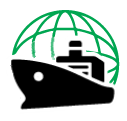
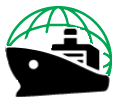
agregando estilos  y textos imagenes

diff --git a/src/front/js/pages/home.js b/src/front/js/pages/home.js
@@ -2,7 +2,9 @@ import React, { useContext } from "react";
 import { Context } from "../store/appContext";
 import "../../styles/home.css";
 import onlyTruck from "../../img/onlytruck.png";
+import onlyPlane from "../../img/onlyplane-white.png";
 import onlyBoat from "../../img/onlyboat-white.png";
+
 
 export const Home = () => {
   const { store, actions } = useContext(Context);
@@ -103,7 +105,7 @@ export const Home = () => {
           {/*  <rect width="100%" height="100%" fill="var(--bs-secondary-color)" />*/}
           {/*</svg>*/}
           <a href="#">
-            <img src={onlyBoat} alt="Logo"
+            <img src={onlyPlane} alt="Logo"
                  className="d-inline-block align-text-top" />
           </a>
           <h2 className="fw-normal">Air</h2>
@@ -114,11 +116,15 @@ export const Home = () => {
         {/*.col-lg-4 */}
 
         <div className="col-lg-4">
-          <svg className="bd-placeholder-img rounded-circle" width="140" height="140" xmlns="http://www.w3.org/2000/svg"
-               role="img" aria-label="Placeholder" preserveAspectRatio="xMidYMid slice" focusable="false">
-            <title>Ocean</title>
-            <rect width="100%" height="100%" fill="var(--bs-secondary-color)" />
-          </svg>
+          {/*<svg className="bd-placeholder-img rounded-circle" width="140" height="140" xmlns="http://www.w3.org/2000/svg"*/}
+          {/*     role="img" aria-label="Placeholder" preserveAspectRatio="xMidYMid slice" focusable="false">*/}
+          {/*  <title>Ocean</title>*/}
+          {/*  <rect width="100%" height="100%" fill="var(--bs-secondary-color)" />*/}
+          {/*</svg>*/}
+          <a href="#">
+            <img src={onlyBoat} alt="Logo"
+                 className="d-inline-block align-text-top" />
+          </a>
           <h2 className="fw-normal">Ocean</h2>
           <p>We entrust our cargo to the world's most elite ocean freight liners.</p>
           <p><a className="btn btn-home-primary" href="#">View details &raquo;</a></p>
